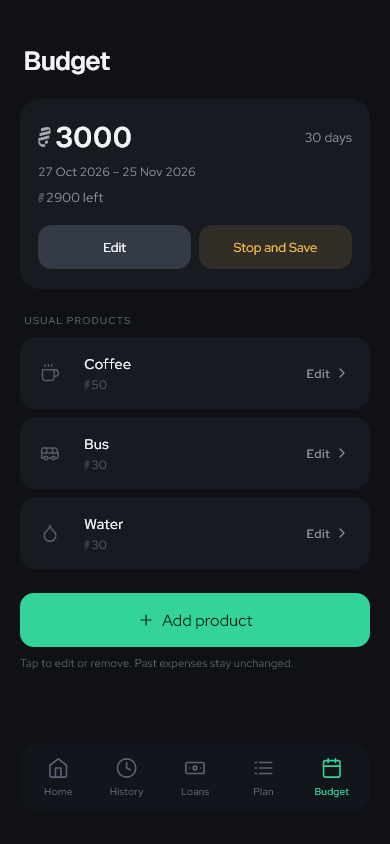
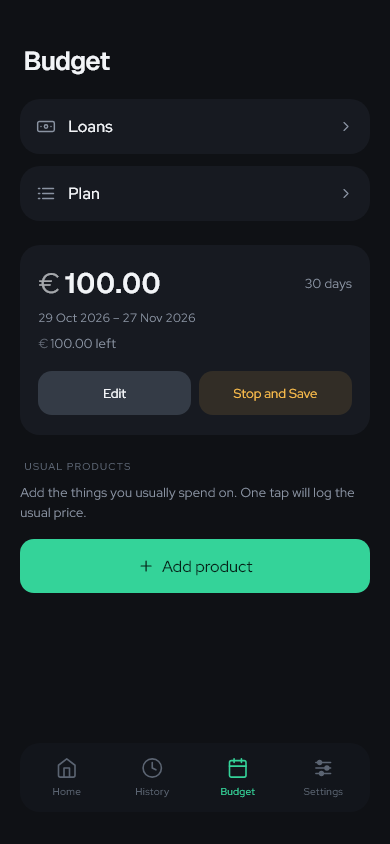
docs: update README for currency settings and version 0.6.0

diff --git a/README.md b/README.md
@@ -11,7 +11,7 @@
 
 A money journal for Algerian students. Spread your allowance across the days until your next payment. Log coffee and bus fares, set money aside for books, and track money lent or borrowed. Your records stay on your phone.
 
-<sub>ALGERIAN DINARS / WORKS OFFLINE / NO ACCOUNT</sub>
+<sub>DZD + EUR / WORKS OFFLINE / NO ACCOUNT</sub>
 
 <p align="center">
   <a href="#a-day-with-waffir">A day with Waffir</a> ·
@@ -29,7 +29,7 @@ A money journal for Algerian students. Spread your allowance across the days unt
 <table>
   <tr>
     <td width="42%" align="center">
-      <img src="docs/screenshots/home.png" width="260" alt="Waffir 0.5.0 Home with the current five-tab navigation, daily allowance, savings, and future estimates">
+      <img src="docs/screenshots/home.png" width="260" alt="Waffir 0.6.0 Home with euro amounts, four navigation tabs, and daily spending figures">
     </td>
     <td>
       <h3>One number before you spend.</h3>
@@ -43,17 +43,16 @@ A money journal for Algerian students. Spread your allowance across the days unt
   </tr>
 </table>
 
-### Five places for your money
+### Four tabs, with tools in Budget
 
 | Tab | What you do there |
 | --- | --- |
 | Home | Check ordinary money left today, daily figures, reserved plans, and open loans. |
 | History | Search expense logs and correct active or saved budgets. |
-| Loans | Track money owed to you and money you owe, with repayments and reminders. |
-| Plan | Reserve future expenses, review missed days, and record actual purchases. |
-| Budget | Edit your budget, manage usual products, or Stop and Save. |
+| Budget | Edit your budget, manage usual products, open Loans or Plan, or Stop and Save. |
+| Settings | Choose Algerian dinars or euros for new budgets. |
 
-All screenshots below come from the current app with sample records. They do not show personal financial data.
+Screenshots use sample records. The Home, Budget, Settings, and calculator images show version 0.6.0; other workflow images show the earlier layout. They do not show personal financial data.
 
 ### Small purchases, written down
 
@@ -71,11 +70,25 @@ You remember the big payment. Coffee, water, and snacks are easier to forget. Gi
 </p>
 <p align="center"><sub>Write it down. Find it later. Fix it if needed.</sub></p>
 
+## One budget, one currency
+
+Choose **Algerian dinar** or **Euro** in Settings before starting a new budget. Each budget keeps the currency it was created with. Changing the default does not convert or rename existing amounts.
+
+- DZD budgets use whole dinars. EUR budgets support cents.
+- Currency symbols appear beside amounts, including inputs and daily figures.
+- Loans, repayments, plans, and carry-over stay linked to budgets in the same currency.
+- Usual products are kept by currency. Loans and Plan have currency filters.
+
+<p align="center">
+  <img src="docs/screenshots/settings.png" width="265" alt="Settings with dinar and euro currency choices">
+  <img src="docs/screenshots/calculator.png" width="265" alt="Euro calculator with operators, CLE, DEL, double-width zero, and tall equals key">
+</p>
+
 ## Set money aside
 
 **Books on Monday. A bus pass next week. Keep their money ready.**
 
-The **Plan** tab reserves an estimated amount for one day or several selected days in your active budget. Choose **Total**, **Per day**, or **Custom**, add a label and icon, then check the split and daily-limit preview. A total of 100 DA over three days becomes 34, 33, and 33 DA. Custom lets you enter a different estimated amount for each day. Tap a date or amount to correct it before saving.
+Open **Budget > Plan**. This tool reserves an estimated amount for one day or several selected days in your active budget. Choose **Total**, **Per day**, or **Custom**, add a label and icon, then check the split and daily-limit preview. A total of 100 DA over three days becomes 34, 33, and 33 DA. Custom lets you enter a different estimated amount for each day. Tap a date or amount to correct it before saving.
 
 | Mode | Example |
 | --- | --- |
@@ -93,7 +106,7 @@ The **Plan** tab reserves an estimated amount for one day or several selected da
 - On the planned day, record the actual expense. Change the amount, label, icon, date, or time if needed. Saving replaces that day's reservation with one expense in History.
 - Missed days keep their reservation until recorded, moved, or cancelled. Plans above available cash need confirmation.
 - Correct a linked expense in History or Plan. Deleting it restores its reservation. Deleting the plan keeps recorded expenses.
-- When a budget stops, unfinished days stay available for review. Move them to dates in the active budget. Completed days stay linked to their saved budget.
+- When a budget stops, unfinished days stay available for review. Move them to dates in an active budget with the same currency. Completed days stay linked to their saved budget.
 
 Date and amount inputs are separate. Tap a date to open the calendar, tap an amount to edit its estimate, or use the red trash button to remove a pending day. Preview cards show total reserved money and the ordinary daily limit before saving.
 
@@ -105,7 +118,7 @@ Date and amount inputs are separate. Tap a date to open the calendar, tap an amo
 
 **Books for a friend. Bus money borrowed until next week. Keep both in view.**
 
-Loans has two clear directions: **Owed to me** and **I owe**. Save the person's name, amount, loan date, and an optional due date and note. The popup shows the effect on your budget before you save.
+Open **Budget > Loans** to track two directions: **Owed to me** and **I owe**. Save the person's name, amount, loan date, and an optional due date and note. The popup shows the effect on your budget before you save.
 
 | Keep track | Settle up |
 | --- | --- |
@@ -149,7 +162,7 @@ Reminders are on by default for dated loans and can be switched off per loan. Wa
 
 **Choose a period. Add your money. Save your usual purchases.**
 
-Use a **7, 15, 21, or 28-day** shortcut, or choose dates that match your next payment. The duration appears directly below the date inputs. Both the start and end dates count. Enter the full budget in whole dinars. Products are optional and can be added later.
+Use a **7, 15, 21, or 28-day** shortcut, or choose dates that match your next payment. The duration appears directly below the date inputs. Both the start and end dates count. Enter the full budget in the selected currency: whole dinars or euros with cents. Products are optional and can be added later.
 
 <details>
 <summary><b>See the three setup screens</b></summary>
@@ -164,7 +177,7 @@ Use a **7, 15, 21, or 28-day** shortcut, or choose dates that match your next pa
 
 Amount inputs accept `+`, `-`, multiplication, and division. For example, `340/5` gives **68 DA**, and `120+250` gives **370 DA**. Multiplication and division are calculated before addition and subtraction. Tap **=**, Continue, or Save to calculate.
 
-The saved result must be a positive whole amount in dinars. Invalid calculations, division by zero, and fractional final amounts are rejected. The amount keypad is shared by budget setup, expense entry, loans, and plans.
+The saved result must be positive. DZD uses whole dinars; EUR supports cents, such as €12.50. Invalid calculations, division by zero, and results with unsupported decimal precision are rejected. The amount keypad is shared by budget setup, expense entry, loans, and plans. Operators sit above the numbers. **CLE** clears the expression; **DEL** removes the last character. Zero is double width, and equals spans two rows. Operator keys have a darker surface than number keys.
 
 ## When plans change
 
@@ -247,7 +260,7 @@ These are examples. You choose the label and icon. Changing a usual product's pr
 <details>
 <summary><b>Flutter setup, checks, APK build, and source map</b></summary>
 
-Current release: **0.5.0+1**. The shared Android release is ARM64 and about **18.62 MiB**. It includes Plan and Custom daily estimates.
+Current release: **0.6.0+1**. The shared Android release is ARM64 and about **18.62 MiB**. It includes DZD and EUR budgets, Settings, and the revised calculator.
 
 This is a Flutter project. Install Flutter and the Android SDK, then run:
 
@@ -271,7 +284,7 @@ Build smaller APKs for each processor type:
 flutter build apk --release --split-per-abi --split-debug-info=build/symbols/android
 ```
 
-The generated ARM64 output is `build/app/outputs/flutter-apk/app-arm64-v8a-release.apk`. Shared APKs use `waffir-release-<version>+<build>.apk`, such as `waffir-release-0.5.0+1.apk`. Build outputs are not stored in Git. Keep the debug symbol files with the release. Android's internal update code includes the release version so build counters can restart without blocking updates. The current Android build uses the debug signing key; set a production key before store distribution.
+The generated ARM64 output is `build/app/outputs/flutter-apk/app-arm64-v8a-release.apk`. Shared APKs use `waffir-release-<version>+<build>.apk`, such as `waffir-release-0.6.0+1.apk`. Build outputs are not stored in Git. Keep the debug symbol files with the release. Android's internal update code includes the release version so build counters can restart without blocking updates. The current Android build uses the debug signing key; set a production key before store distribution.
 
 The code uses a layer-first structure:
 
@@ -279,7 +292,7 @@ The code uses a layer-first structure:
 lib/
   main.dart                 # Supplies storage and phone notifications
   domain/
-    models/                 # Budgets, expenses, loans, plans, and daily figures
+    models/                 # Currencies, budgets, expenses, loans, plans, and daily figures
     rules/                  # Expense rules and loan reminder planning
     repositories/           # Typed storage contract
   data/
@@ -289,7 +302,7 @@ lib/
   presentation/
     app.dart                # App theme and root navigation
     controllers/            # Validated changes, reservations, links, and durable saves
-    screens/                # Home, History, Loans, Plan, Budget, and editors
+    screens/                # Home, History, Budget, Settings, Loans, Plan, and editors
     widgets/                # Shared forms, cards, lists, popups, and navigation
     design/                 # Colors, spacing, button styles, and formatting
 ```
